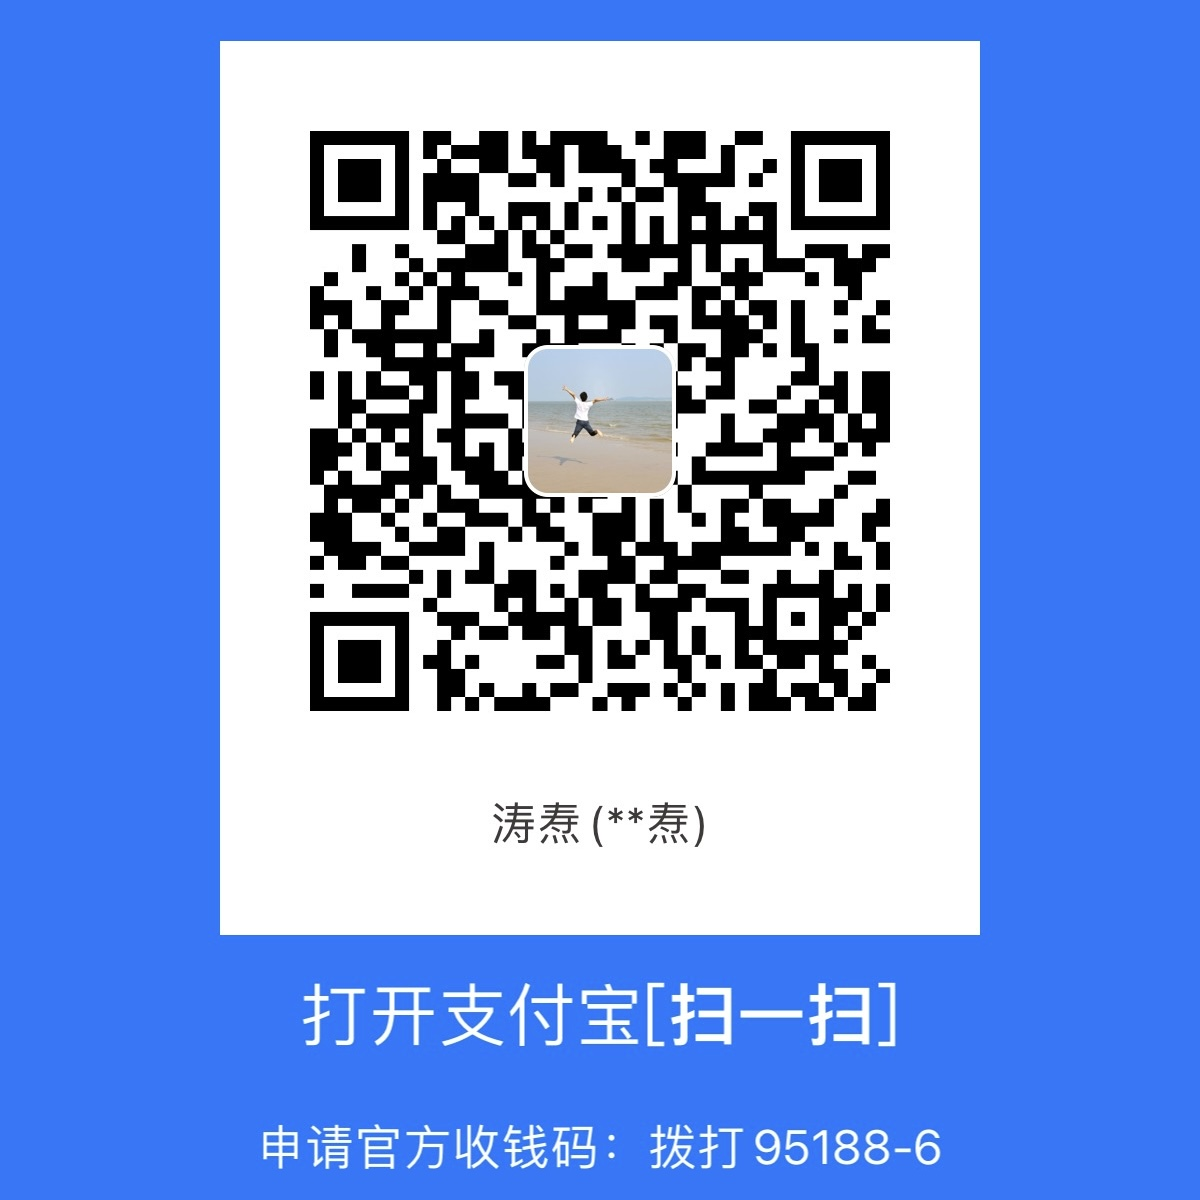
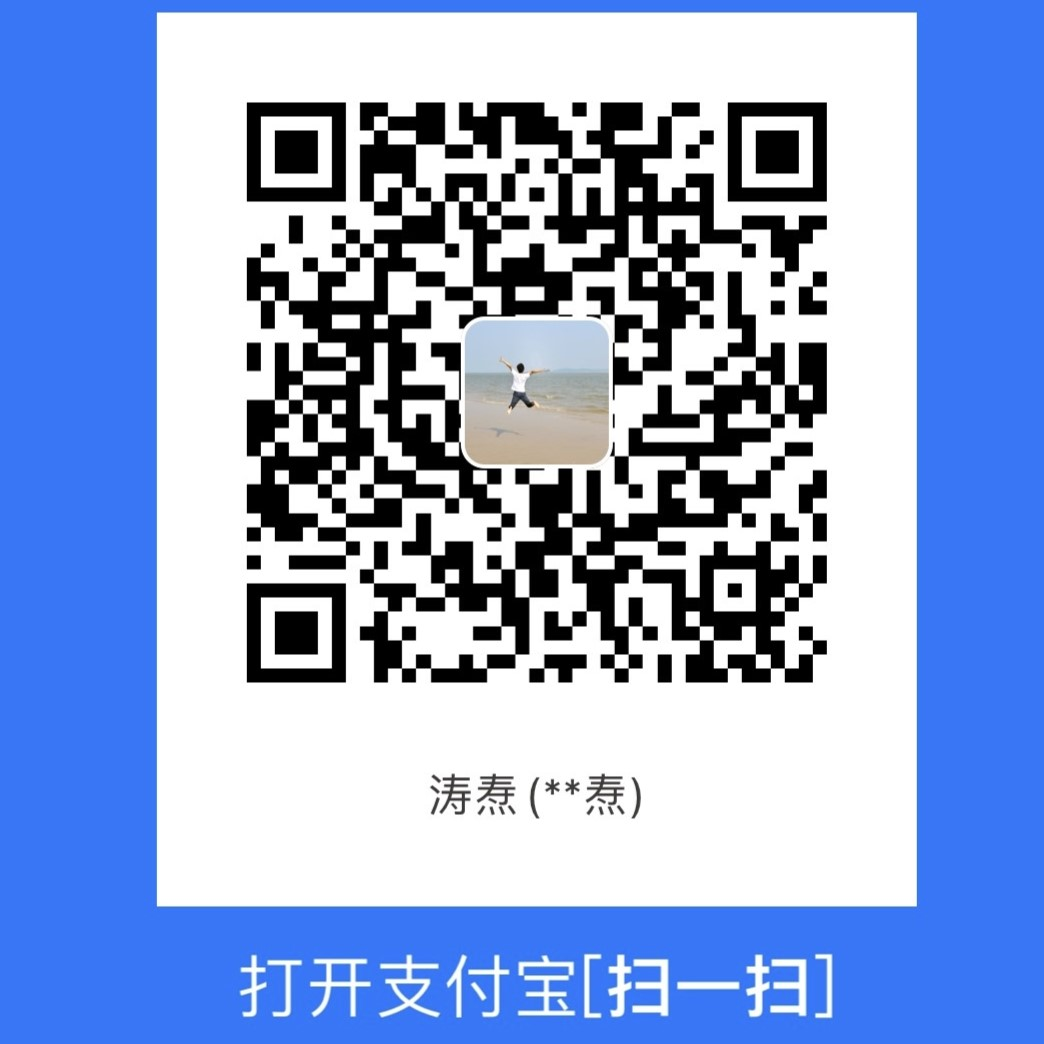
sponsor

diff --git a/.vitepress/theme/components/SideSponsors.vue b/.vitepress/theme/components/SideSponsors.vue
@@ -1,58 +1,11 @@
 <script setup lang="ts">
-import Prover from './Prover.vue'
 </script>
 
 <template>
   <div style="display: flex;flex-direction: column;">
-    <div style="display: flex;justify-content:center;margin-bottom: 20px;color:#d4380d">鼓励作者欢迎打赏</div>
+    <div style="display: flex;justify-content:center;margin-bottom: 20px;color:#d4380d">鼓励作者欢迎微信打赏</div>
     <div style="display: flex;justify-content: center;">
-      <Prover proverImage="/payment/IMG_5471.jpeg" left="-40px">
-        <div style="padding: 20px;">
-          <svg
-            t="1710310096476"
-            class="icon"
-            viewBox="0 0 1024 1024"
-            version="1.1"
-            xmlns="http://www.w3.org/2000/svg"
-            p-id="12839"
-            width="32"
-            height="32"
-          >
-            <path
-              d="M503.552 406.95808c16.89088 0 27.648-10.84928 27.648-27.13088 0-17.05472-10.75712-27.13088-27.648-27.13088-16.128 0-31.488 10.07616-31.488 27.13088 0 16.28672 15.36 27.13088 31.488 27.13088zM351.48288 352.69632c-16.12288 0-33.024 10.07616-33.024 27.13088 0 16.2816 16.896 27.136 33.024 27.136 15.36 0 27.648-10.8544 27.648-27.136 0.00512-17.05472-12.28288-27.13088-27.648-27.13088zM574.20288 511.616c-10.752 0-21.504 10.07104-21.504 22.48192 0 10.07104 10.752 20.1472 21.504 20.1472 16.128 0 27.648-10.07616 27.648-20.1472 0.00512-12.40576-11.51488-22.48192-27.648-22.48192zM694.77888 511.616c-11.51488 0-21.504 10.07104-21.504 22.48192 0 10.07104 9.984 20.1472 21.504 20.1472 15.36 0 26.88512-10.07616 26.88512-20.1472 0-12.40576-11.52512-22.48192-26.88512-22.48192z"
-              fill="#2AAE67"
-              p-id="12840"
-            ></path>
-            <path
-              d="M849.92 51.2H174.08c-67.8656 0-122.88 55.0144-122.88 122.88v675.84c0 67.8656 55.0144 122.88 122.88 122.88h675.84c67.8656 0 122.88-55.0144 122.88-122.88V174.08c0-67.8656-55.0144-122.88-122.88-122.88zM422.912 632.54016c-28.416 0-49.15712-4.64896-76.03712-12.40576l-77.568 39.54176 22.27712-66.66752C237.06112 554.25536 204.8 505.41056 204.8 445.7216c0-105.42592 98.304-186.04032 218.112-186.04032 105.984 0 200.45312 63.5648 218.88 153.49248-7.68-1.55648-14.592-2.3296-20.736-2.3296-104.44288 0-185.08288 79.06816-185.08288 174.4128 0 16.27648 2.304 31.00672 6.144 46.5152-6.144 0.768-13.06112 0.768-19.20512 0.768z m320.25088 75.96544l15.36 55.81312-58.368-33.3312c-22.26688 4.64896-43.776 11.62752-66.04288 11.62752-102.912 0-184.32-71.31648-184.32-159.68256s81.408-159.68768 184.32-159.68768c97.536 0 185.088 71.31648 185.088 159.68768 0 49.60768-33.024 93.78816-76.03712 125.57312z"
-              fill="#2AAE67"
-              p-id="12841"
-            ></path>
-          </svg>
-        </div>
-      </Prover>
-      
-      <Prover proverImage="/payment/IMG_5472.jpg" left="-110px">
-        <div style="padding: 20px;">
-          <svg
-            t="1710310045669"
-            class="icon"
-            viewBox="0 0 1024 1024"
-            version="1.1"
-            xmlns="http://www.w3.org/2000/svg"
-            p-id="4266"
-            width="32"
-            height="32"
-          >
-            <path
-              d="M1024.0512 701.0304V196.864A196.9664 196.9664 0 0 0 827.136 0H196.864A196.9664 196.9664 0 0 0 0 196.864v630.272A196.9152 196.9152 0 0 0 196.864 1024h630.272a197.12 197.12 0 0 0 193.8432-162.0992c-52.224-22.6304-278.528-120.32-396.4416-176.64-89.7024 108.6976-183.7056 173.9264-325.3248 173.9264s-236.1856-87.2448-224.8192-194.048c7.4752-70.0416 55.552-184.576 264.2944-164.9664 110.08 10.3424 160.4096 30.8736 250.1632 60.5184 23.1936-42.5984 42.496-89.4464 57.1392-139.264H248.064v-39.424h196.9152V311.1424H204.8V267.776h240.128V165.632s2.1504-15.9744 19.8144-15.9744h98.4576V267.776h256v43.4176h-256V381.952h208.8448a805.9904 805.9904 0 0 1-84.8384 212.6848c60.672 22.016 336.7936 106.3936 336.7936 106.3936zM283.5456 791.6032c-149.6576 0-173.312-94.464-165.376-133.9392 7.8336-39.3216 51.2-90.624 134.4-90.624 95.5904 0 181.248 24.4736 284.0576 74.5472-72.192 94.0032-160.9216 150.016-253.0816 150.016z"
-              fill="#009FE8"
-              p-id="4267"
-            ></path>
-          </svg>
-        </div>
-      </Prover>
-      
+      <img style="border: 1px solid #e2e2e3;border-radius: 8px;" src="/payment/IMG_5471.jpeg"/>
     </div>
   </div>
 </template>
